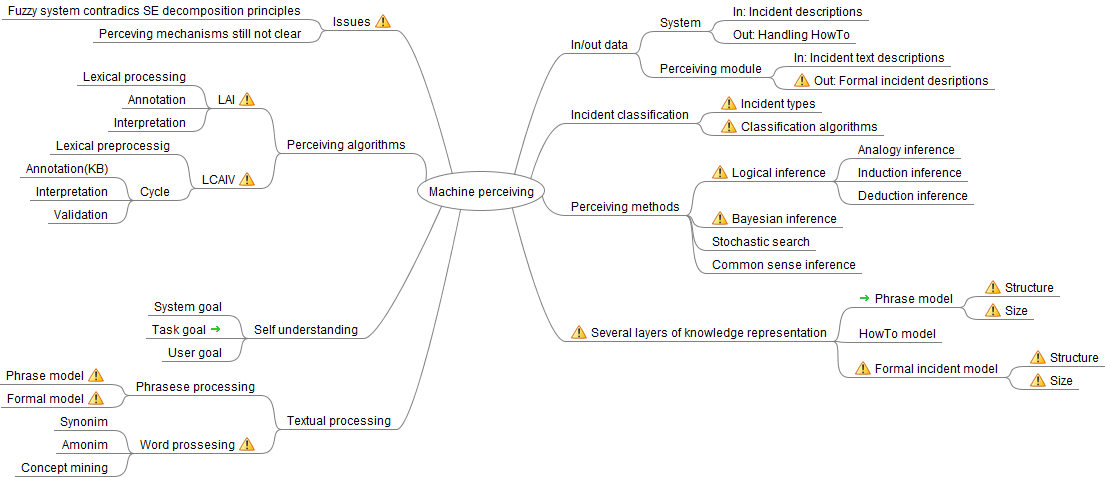
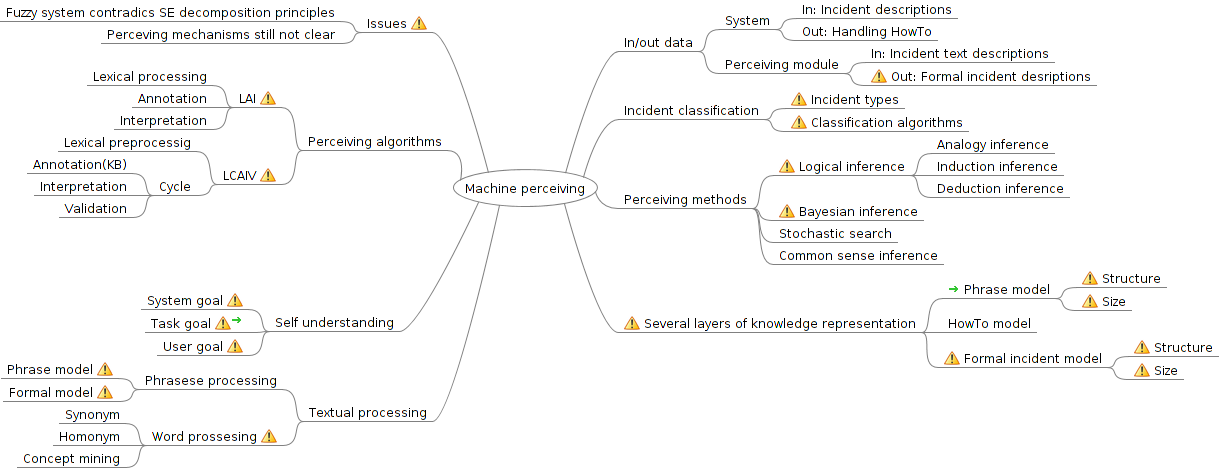
menta-0.3-62: Analyse 10-20 issues to crate data model of problem description: Added process phrase technical approach.

diff --git a/doc/informal/mind-maps/problem highlevel.mm b/doc/informal/mind-maps/problem highlevel.mm
@@ -57,9 +57,15 @@
 <node CREATED="1324475627853" ID="ID_857504107" MODIFIED="1324475639377" TEXT="Common sense inference"/>
 </node>
 <node CREATED="1324310762979" HGAP="53" ID="ID_559828872" MODIFIED="1324408497969" POSITION="left" TEXT="Self understanding" VSHIFT="69">
-<node CREATED="1324310803205" ID="ID_1501316224" MODIFIED="1324310810267" TEXT="System goal"/>
-<node CREATED="1324310815941" ID="ID_553926218" LINK="#ID_926328188" MODIFIED="1324409114159" TEXT="Task goal"/>
-<node CREATED="1324446665947" ID="ID_841349967" MODIFIED="1324446670378" TEXT="User goal"/>
+<node CREATED="1324310803205" ID="ID_1501316224" MODIFIED="1324707507468" TEXT="System goal">
+<icon BUILTIN="messagebox_warning"/>
+</node>
+<node CREATED="1324310815941" ID="ID_553926218" LINK="#ID_926328188" MODIFIED="1324707529025" TEXT="Task goal">
+<icon BUILTIN="messagebox_warning"/>
+</node>
+<node CREATED="1324446665947" ID="ID_841349967" MODIFIED="1324707522755" TEXT="User goal">
+<icon BUILTIN="messagebox_warning"/>
+</node>
 </node>
 <node CREATED="1324310538706" ID="ID_1622350366" MODIFIED="1324446728420" POSITION="right" TEXT="Several layers of knowledge representation">
 <icon BUILTIN="messagebox_warning"/>
